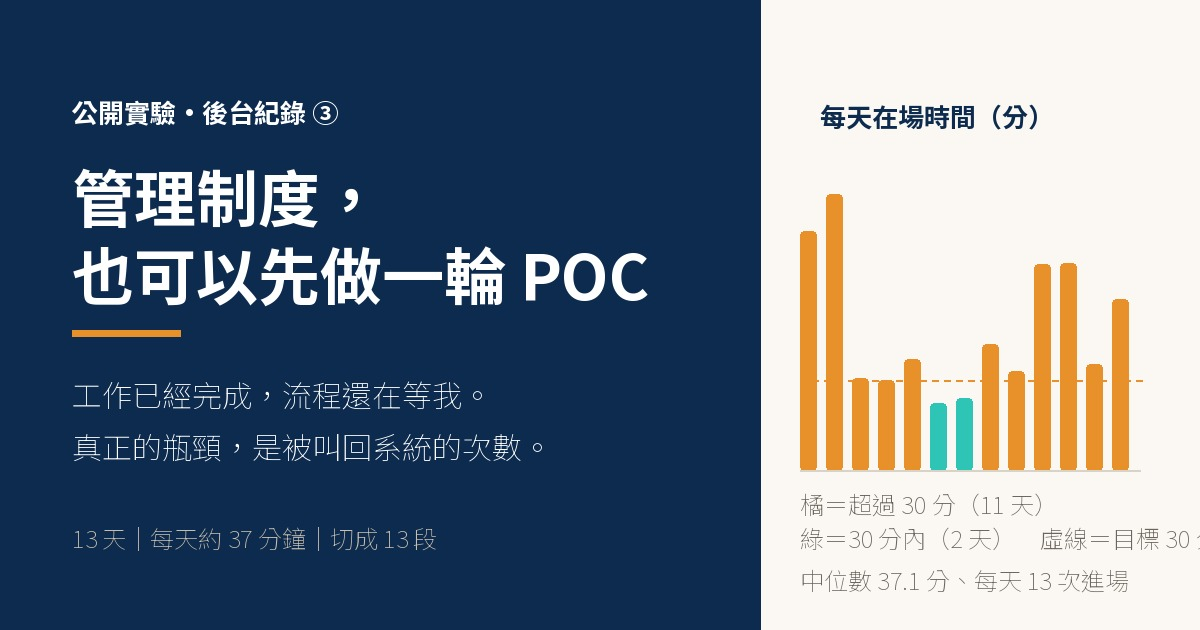
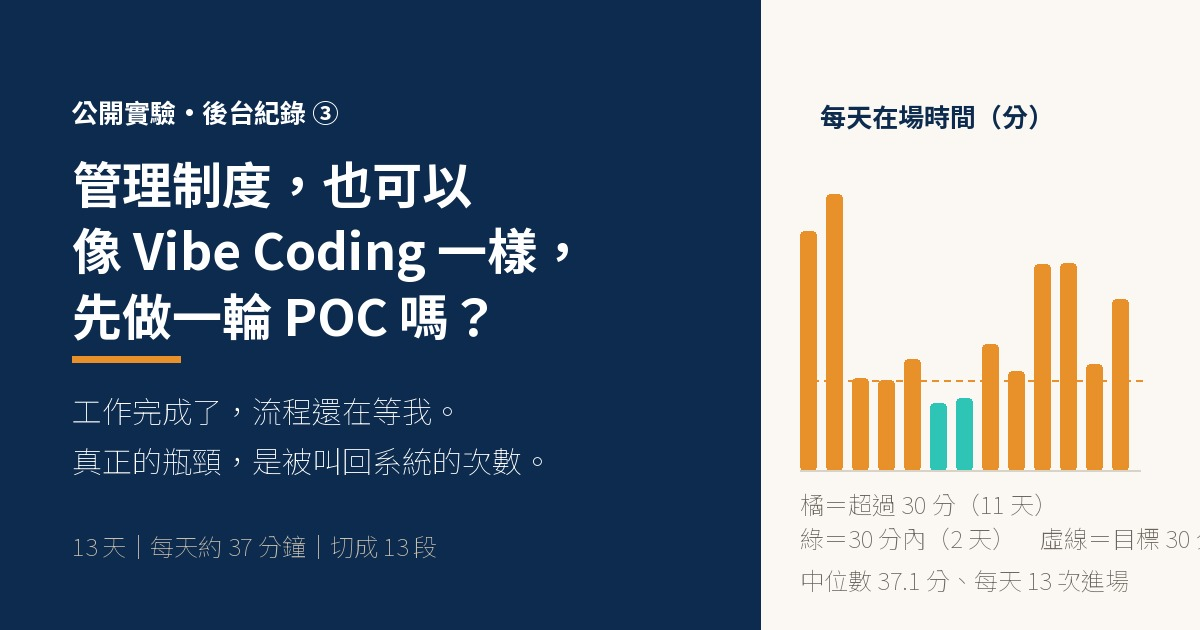
fix(site): 後台紀錄③標題對齊原文、封面重排

Changed region(s): [[0.0617, 0.2413, 0.555, 0.754], [0.0617, 0.8444, 0.37, 0.9048]]

diff --git a/src/app/(zh)/knowledge/camino-operation-poc/page.tsx b/src/app/(zh)/knowledge/camino-operation-poc/page.tsx
@@ -437,7 +437,7 @@ export default function Post() {
       <section className="bg-gradient-hero text-white">
         <div className="max-w-[860px] mx-auto px-4 sm:px-6 py-16 md:py-20">
           <span className="tag bg-white/15 text-white mb-4">公開實驗・後台紀錄 ③</span>
-          <h1 className="heading-hero mt-4 mb-4">管理制度，也可以先做一輪 POC 嗎？</h1>
+          <h1 className="heading-hero mt-4 mb-4">管理制度，也可以像 Vibe Coding 一樣，先做一輪 POC 嗎？</h1>
           <p className="text-body-lg text-white/85 mb-2">
             工作完成了，流程還在等我。真正的瓶頸，是一天被叫回系統幾次。
           </p>

diff --git a/src/app/(zh)/knowledge/page.tsx b/src/app/(zh)/knowledge/page.tsx
@@ -25,7 +25,7 @@ const articles: Article[] = [
   {
     slug: "camino-operation-poc",
     cat: "AI 轉型",
-    title: "後台紀錄 ③：管理制度，也可以先做一輪 POC",
+    title: "後台紀錄 ③：管理制度，也可以先做一輪 POC 嗎？",
     date: "2026-10-27",
     readTime: "6 分鐘",
     excerpt: "13 天裡每天介入約 37 分鐘，卻被切成十幾段。比起總時間，一天被叫回來幾次，更接近真正的管理問題。下一輪試行三層授權。",
